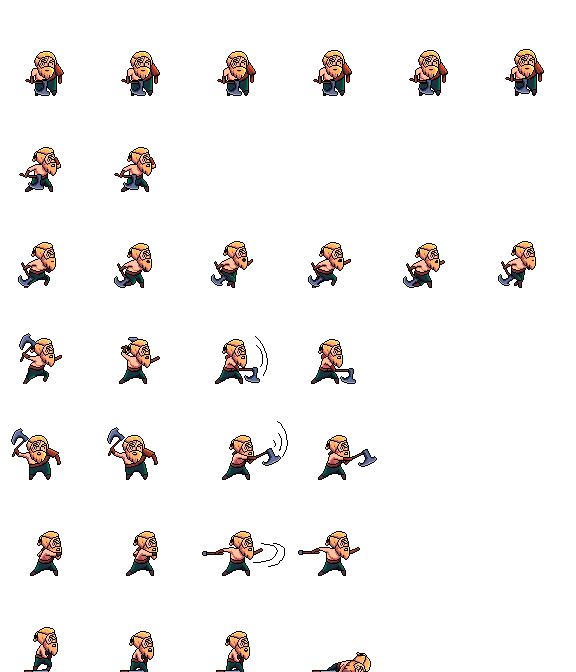
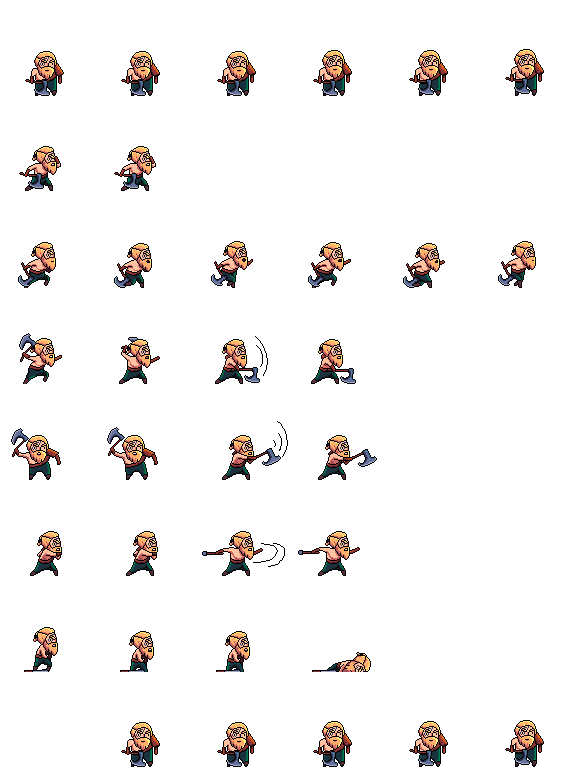
update sprite

diff --git a/src/utils/Constant.java b/src/utils/Constant.java
@@ -9,11 +9,12 @@ public class Constant {
         public static final int ATT2 = 4;
         public static final int ATT3 = 5;
         public static final int DEAD = 6;
+        public static final int HITTED = 7;
         public static final int WIDTH = 128;
         public static final int HEIGHT = 128;
 
         public static int getSpriteAmount(int action){
-            if(action == IDLE){
+            if(action == IDLE || action == HITTED){
                 return 7;
             }else if(action == BASIC || action == ATT1){
                 return 4;
@@ -37,6 +38,7 @@ public class Constant {
         public static final int ATT2 = 5;
         public static final int ATT3 = 6;
         public static final int DEAD = 1;
+        public static final int HITTED = 7;
         public static final int WIDTH = 128;
         public static final int HEIGHT = 128;
 
@@ -49,8 +51,10 @@ public class Constant {
                 return 6;
             }else if(action == ATT1){
                 return 5;
-            }else if(action == ATT3){
+            }else if(action == ATT3) {
                 return 2;
+            }else if(action == HITTED){
+                return 1;
             } else{
                 return 0;
             }
@@ -64,13 +68,14 @@ public class Constant {
         public static final int ATT2 = 5;
         public static final int ATT3 = 1;
         public static final int DEAD = 6;
+        public static final int HITTED = 7;
         public static final int WIDTH = 128;
         public static final int HEIGHT = 128;
 
         public static int getSpriteAmount(int action){
             if(action == BASIC || action == ATT2 || action == ATT1 || action == DEAD){
                 return 4;
-            }else if(action == RUN || action == IDLE){
+            }else if(action == RUN || action == IDLE || action == HITTED){
                 return 6;
             }else if(action == ATT3){
                 return 2;

diff --git a/src/entities/Samurai.java b/src/entities/Samurai.java
@@ -22,7 +22,7 @@ public class Samurai extends Entity{
     }
     public void loadAnimations(){
         BufferedImage img = LoadSave.getSprite(LoadSave.SAMURAI);
-        samurai = new BufferedImage[7][8];
+        samurai = new BufferedImage[8][8];
         for (int j = 0; j < samurai.length; j++) {
             for (int i = 0; i < samurai[j].length; i++) {
                 samurai[j][i] = img.getSubimage(128 * i, 128 * j, 128, 128);

diff --git a/src/entities/Wizard.java b/src/entities/Wizard.java
@@ -35,7 +35,7 @@ public class Wizard extends Entity {
 
     public void loadAnimations() {
         BufferedImage img = LoadSave.getSprite(LoadSave.WIZARD);
-        hero2 = new BufferedImage[7][14];
+        hero2 = new BufferedImage[8][14];
         for (int j = 0; j < hero2.length; j++) {
             for (int i = 0; i < hero2[j].length; i++) {
                 hero2[j][i] = img.getSubimage(128 * i, 128 * j, 128, 128);

diff --git a/src/entities/Dwarf.java b/src/entities/Dwarf.java
@@ -22,7 +22,7 @@ public class Dwarf extends Entity{
     }
     public void loadAnimations() {
         BufferedImage img = LoadSave.getSprite(LoadSave.DWARF);
-        dwarf = new BufferedImage[7][6];
+        dwarf = new BufferedImage[8][6];
         for (int j = 0; j < dwarf.length; j++) {
             for (int i = 0; i < dwarf[j].length; i++) {
                 dwarf[j][i] = img.getSubimage(96 * i, 96 * j, 96, 96);
